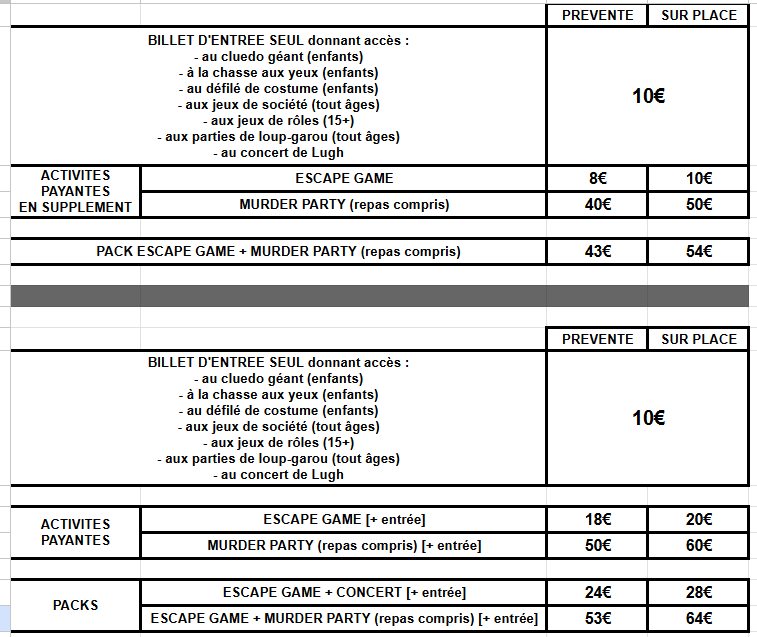
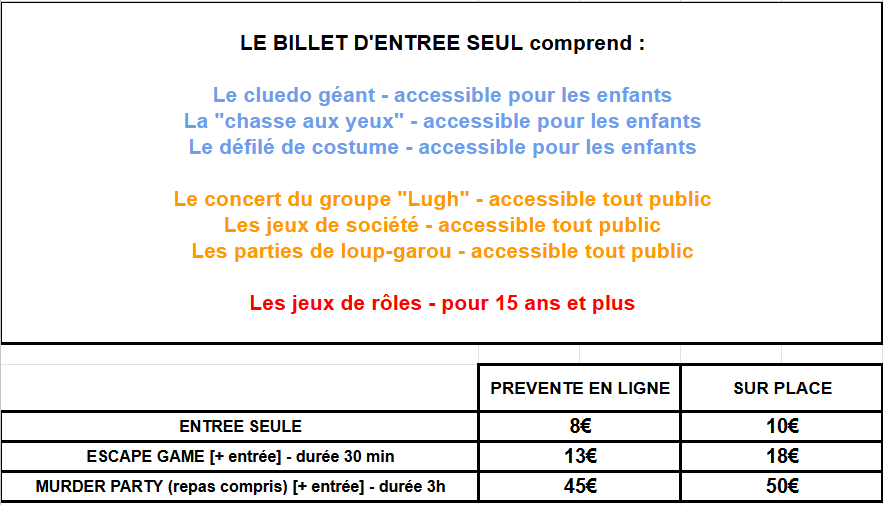
pricing

diff --git a/halloween-2026/index.html b/halloween-2026/index.html
@@ -295,9 +295,7 @@ footer .footer-actions{margin-top:28px;display:flex;justify-content:center;gap:1
 <footer>
   <div class="wrap" id="tarifs">
     <h2>Venez costumés, venez nombreux</h2>
-    <!--
     <img class="pricing-image" src="../images/halloween-2026-tarifs.png" alt="Tarifs Halloween 2026 et modalités de réservation" width="720" height="962">
-    -->
     <div class="footer-actions">
       <a class="btn btn-ghost" href="index.html#top">Retour en haut de la page</a>
     </div>
